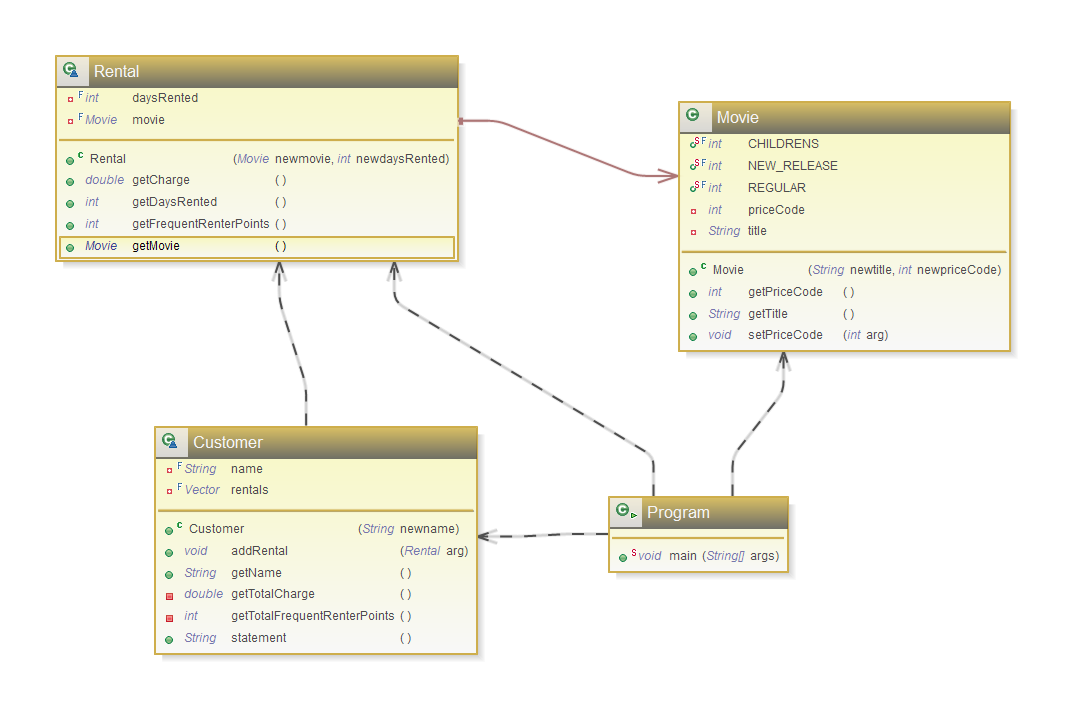
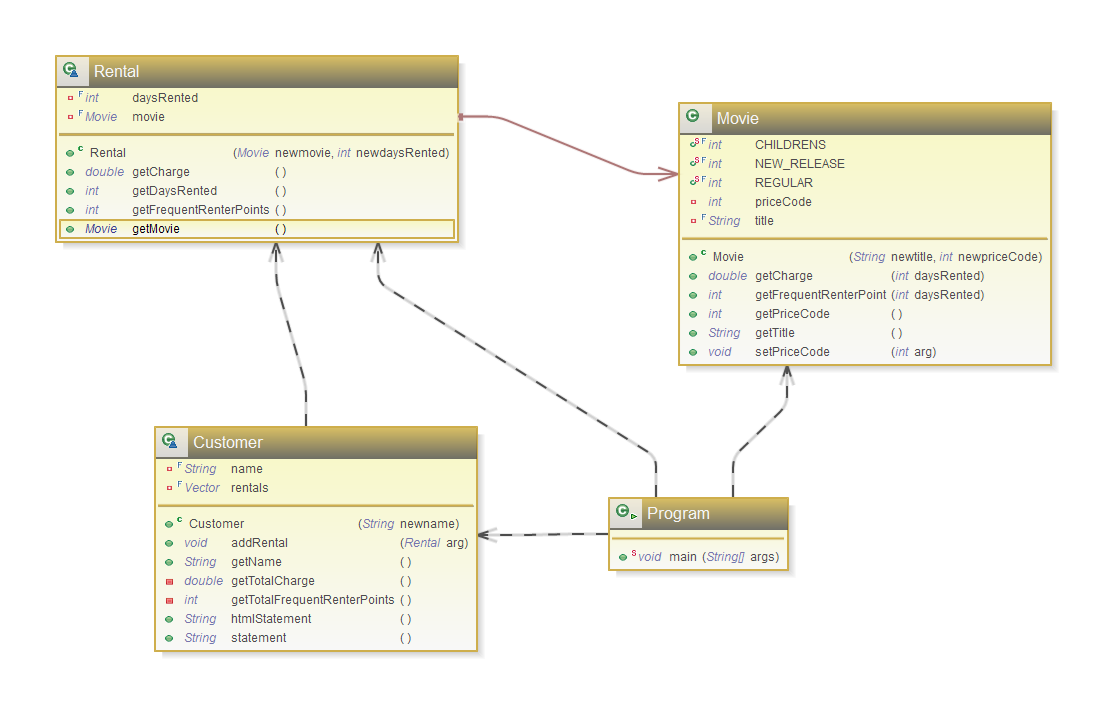
Prep for "Replace conditional with polymorphism"

Changed region(s): [[0.1239, 0.4363, 0.7437, 0.9348], [0.4958, 0.1246, 0.9606, 0.6544], [0.031, 0.0623, 0.4958, 0.5297]]

diff --git a/src/refactoring/Movie.java b/src/refactoring/Movie.java
@@ -1,21 +1,59 @@
 package refactoring;
+
 public class Movie {
-    public static final int CHILDRENS = 2;
-    public static final int REGULAR = 0;
-    public static final int NEW_RELEASE = 1;
-    private String title;
-    private int priceCode;
-    public Movie(String newtitle, int newpriceCode) {
-        title = newtitle;
-        priceCode = newpriceCode;
-    }
-    public int getPriceCode() {
-        return priceCode;
-    }
-    public void setPriceCode(int arg) {
-        priceCode = arg;
-    }
-    public String getTitle (){
-        return title;
-    };
+	public static final int CHILDRENS = 2;
+	public static final int REGULAR = 0;
+	public static final int NEW_RELEASE = 1;
+	private final String title;
+	private int priceCode;
+
+	public Movie(String newtitle, int newpriceCode) {
+		title = newtitle;
+		priceCode = newpriceCode;
+	}
+
+	public int getPriceCode() {
+		return priceCode;
+	}
+
+	public void setPriceCode(int arg) {
+		priceCode = arg;
+	}
+
+	public String getTitle() {
+		return title;
+	}
+
+	/**
+	 * @param daysRented
+	 * @return
+	 */
+	public double getCharge(int daysRented) {
+		double result = 0;
+		switch (getPriceCode()) {
+		case Movie.REGULAR:
+			result += 2;
+			if (daysRented > 2)
+				result += (daysRented - 2) * 1.5;
+			break;
+		case Movie.NEW_RELEASE:
+			result += daysRented * 3;
+			break;
+		case Movie.CHILDRENS:
+			result += 1.5;
+			if (daysRented > 3)
+				result += (daysRented - 3) * 1.5;
+			break;
+		}
+		return result;
+	}
+
+	/**
+	 * @return
+	 */
+	public int getFrequentRenterPoint(int daysRented) {
+		if ((getPriceCode() == Movie.NEW_RELEASE) && daysRented > 1)
+			return 2;
+		return 1;
+	}
 }

diff --git a/src/refactoring/Rental.java b/src/refactoring/Rental.java
@@ -22,23 +22,7 @@ class Rental {
 	 * @return
 	 */
 	public double getCharge() {
-		double result = 0;
-		switch (getMovie().getPriceCode()) {
-		case Movie.REGULAR:
-			result += 2;
-			if (getDaysRented() > 2)
-				result += (getDaysRented() - 2) * 1.5;
-			break;
-		case Movie.NEW_RELEASE:
-			result += getDaysRented() * 3;
-			break;
-		case Movie.CHILDRENS:
-			result += 1.5;
-			if (getDaysRented() > 3)
-				result += (getDaysRented() - 3) * 1.5;
-			break;
-		}
-		return result;
+		return movie.getCharge(getDaysRented());
 	}
 
 	/**
@@ -47,9 +31,7 @@ class Rental {
 	 * @return
 	 */
 	public int getFrequentRenterPoints() {
-		if ((getMovie().getPriceCode() == Movie.NEW_RELEASE) && getDaysRented() > 1)
-			return 2;
-		return 1;
+		return movie.getFrequentRenterPoint(getDaysRented());
 	}
 
 }
